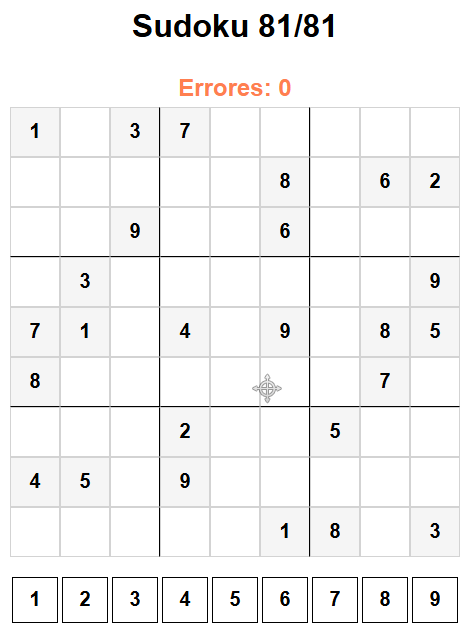
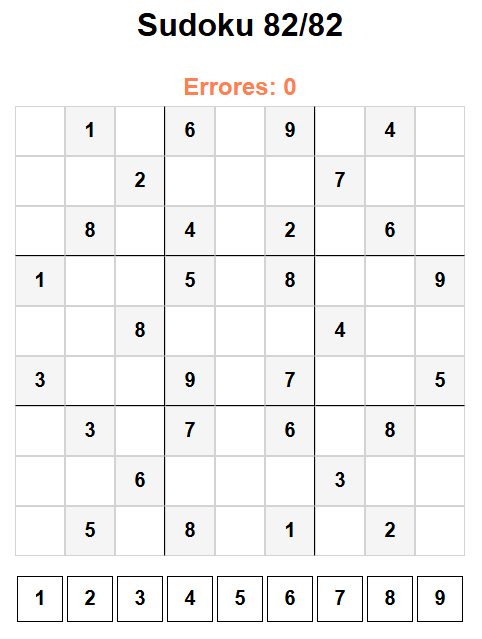
Feat: sudoku-javascript. 20260719
- 20260719

#20260719

Changed region(s): [[0.0296, 0.1203, 0.9767, 0.9921], [0.2664, 0.0, 0.7104, 0.0601], [0.0296, 0.8418, 0.0592, 0.8718]]

diff --git a/board.js b/board.js
@@ -161,6 +161,8 @@ const board = [
     '8--1-6--3', '4-2---8-1', '-8--9--4-', '--6---5--'],
   ['1-37-----', '-----8-62', '--9--6---', '-3------9', '71-4-9-85',
     '8------7-', '---2--5--', '45-9-----', '-----18-3'],
+  ['-1-6-9-4-' ,'--2---7--', '-8-4-2-6-', '1--5-8--9' , '--8---4--',
+    '3--9-7--5', '-3-7-6-8-' , '--6---3--', '-5-8-1-2-'],
 ];
 
 export default function getBoard (WHICH) {

diff --git a/sudoku.js b/sudoku.js
@@ -10,7 +10,7 @@ let posExample = '';
 
 let errors = 0;
 
-const WHICH = 80;
+const WHICH = 81;
 let currentBoardIndex = WHICH; // El índice del tablero que se va a resolver
 
 let board = [];
